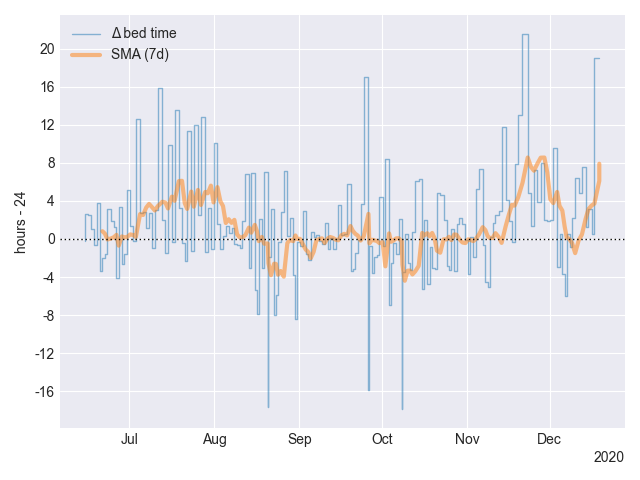
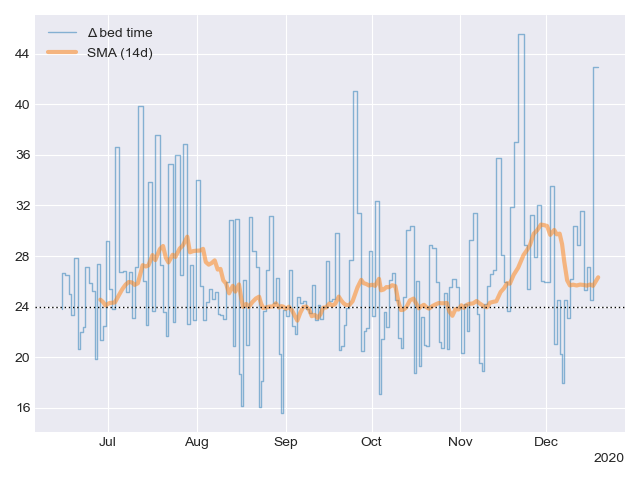
merge adjacent sleep events in delta-since (bug)

diff --git a/_lib/litertools.py b/_lib/litertools.py
@@ -4,20 +4,53 @@ from _lib import ltesting
 
 
 def nextnr(it, n=2):
-    """Yield n-many successive items from an iterator as a list, rotating by one
-    element on each call.
+    """Yield n-many successive items from an iterator as a tuple,
+    rotating by one element on each call.
 
-    >>> import itertools
-    >>> it = itertools.count()
+    >>> it = iter(range(5))
     >>> next(it)
     0
     >>> next(it)
     1
     >>> rit = nextnr(it)
     >>> next(rit)
-    [2, 3]
+    (2, 3)
     >>> next(rit)
-    [3, 4]
+    (3, 4)
+
+    If the underlying iterator yields at least n-many elements,
+    the first tuple from nextnr will always be an n-tuple:
+
+    >>> it = iter(range(3))
+    >>> rit = nextnr(it, n=3)
+    >>> next(rit)
+    (0, 1, 2)
+
+    Trailing tuples will be of smaller length:
+
+    >>> next(rit)
+    (1, 2)
+    >>> next(rit)
+    (2,)
+    >>> next(rit)
+    Traceback (most recent call last):
+      ...
+    StopIteration
+
+    nextnr may therefore be applied to iterators yielding fewer than n elements:
+
+    >>> it = iter(range(3))
+    >>> rit = nextnr(it, n=5)
+    >>> next(rit)
+    (0, 1, 2)
+    >>> next(rit)
+    (1, 2)
+    >>> next(rit)
+    (2,)
+    >>> next(rit)
+    Traceback (most recent call last):
+      ...
+    StopIteration
 
     """
     buf = collections.deque(maxlen=n)
@@ -25,13 +58,36 @@ def nextnr(it, n=2):
         try:
             e = next(it)
         except StopIteration:
-            if buf:
-                yield list(buf)
+            while buf:
+                yield tuple(buf)
+                buf.popleft()
             return
         buf.append(e)
         if len(buf) < n:
             continue
-        yield list(buf)
+        yield tuple(buf)
+        buf.popleft()
+
+
+def nextnrfull(it, n=2):
+    """Like nextnr, but never yields a tuple of length less than n.
+
+    >>> it = iter(range(4))
+    >>> rit = nextnrfull(it, n=3)
+    >>> next(rit)
+    (0, 1, 2)
+    >>> next(rit)
+    (1, 2, 3)
+    >>> next(rit)
+    Traceback (most recent call last):
+      ...
+    StopIteration
+
+    """
+    for tup in nextnr(it, n):
+        if len(tup) < n:
+            break
+        yield tup
 
 
 if __name__ == "__main__":

diff --git a/_lib/ldatetime.py b/_lib/ldatetime.py
@@ -3,12 +3,16 @@ import datetime
 import typing
 
 from _lib import ltesting
-from _lib.litertools import nextnr
+from _lib.litertools import nextnrfull
 
 
-DEFAULT_CELL_WIDTH_MINUTES = 60
+HOURS_IN_DAY    = 24
+MINUTES_IN_HOUR = 60
+MINUTES_IN_DAY  = MINUTES_IN_HOUR * HOURS_IN_DAY
+SECONDS_IN_HOUR = 60 * 60
+SECONDS_IN_DAY  = SECONDS_IN_HOUR * HOURS_IN_DAY
 
-_MINUTES_IN_DAY = 24 * 60
+DEFAULT_CELL_WIDTH_MINUTES = MINUTES_IN_HOUR
 
 
 class Period(typing.NamedTuple):
@@ -208,15 +212,15 @@ def cellsp(start, cell_width_minutes=DEFAULT_CELL_WIDTH_MINUTES):
     datetime.datetime(2020, 1, 7, 1, 0)
 
     """
-    for bounds in nextnr(cells(start, cell_width_minutes)):
+    for bounds in nextnrfull(cells(start, cell_width_minutes)):
         yield Period(since=bounds[0], until=bounds[1])
 
 
 def cells_in_day(cell_width_minutes=DEFAULT_CELL_WIDTH_MINUTES):
-    if _MINUTES_IN_DAY % cell_width_minutes:
+    if MINUTES_IN_DAY % cell_width_minutes:
         raise ValueError(f"cell width {cell_width_minutes!r} is not a factor "
-                         f"of {_MINUTES_IN_DAY}")
-    return _MINUTES_IN_DAY // cell_width_minutes
+                         f"of {MINUTES_IN_DAY}")
+    return MINUTES_IN_DAY // cell_width_minutes
 
 
 def ymd(dt):
@@ -248,8 +252,8 @@ def fmt_seconds_hhmm(s):
     if s < 0:
         sign = "-"
     s = abs(int(s))
-    h = s // (60 * 60)
-    s -= h * 60 * 60
+    h = s // SECONDS_IN_HOUR
+    s -= h * SECONDS_IN_HOUR
     m = s // 60
     return f"{sign}{h:02}:{m:02}"
 
